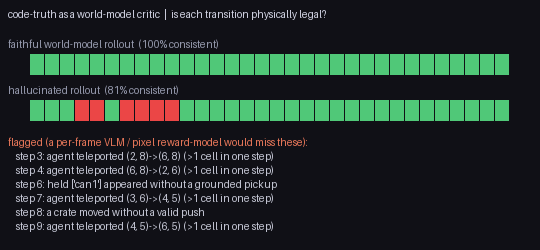
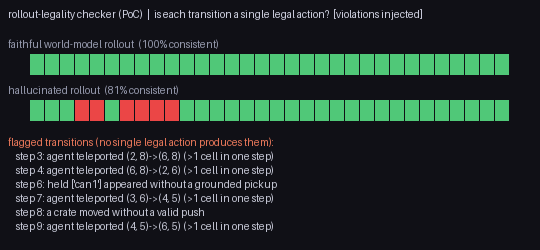
Fix over-correction: demote critic from headline to an honestly-scoped direction
Red-team caught that replacing the constructed code-vs-pixel headline with a 'world-model
critic' headline was WORSE: forge_hallucination() injects exactly the violations critique()
detects (a tautology), it only sees discrete state (not pixels = DIAMOND's real failure mode),
yet the README billed it 'a genuine capability, not a constructed demo' — a self-contradiction
aimed at the founders' own expertise.

- Headline is now the honest, reproducible core: provably-solvable envs + oracle-plan triple
  reuse + PPO that climbs to an oracle-optimal solve (no API key, no manufactured scene)
- critic demoted to '## A direction: code-truth as a rollout-legality checker' with explicit
  scope: it INJECTS the violations it catches; discrete-STATE only; a direction, not a claim.
  critic.png title now carries '[violations injected]'; module docstring states the same
- code-vs-pixel stays a clearly-labeled illustrative micro-benchmark (not 'load-bearing')
- clarity fixes: README pipeline list <-> demo 8 sections aligned; 'strict tool use' ->
  'forced tool use' (it's tool_choice, not the strict-schema beta) everywhere; test count
  13->22; 'minted infinitely' -> 'generated on demand'; controller 'contract' -> 'adapter'

22 tests pass; clean-clone cold run green; every section label consistent across README/demo.

Changed region(s): [[0.0, 0.028, 0.8, 0.084], [0.0889, 0.532, 0.563, 0.588]]

diff --git a/harness/critic.py b/harness/critic.py
@@ -1,16 +1,20 @@
 """
-World-model critic — code-truth as an automated critic for neural world-model "dreams".
+Rollout-legality checker — a proof-of-concept / DIRECTION, not a proven capability.
 
-GI's founders authored DIAMOND, a diffusion world model that predicts future frames. A world
-model can hallucinate: an object teleports, a wall is walked through, an item is "held" that was
-never reached, a door opens with no key. A VLM or a learned reward model judging pixels cannot
-reliably catch these — but the code-defined environment CAN, exactly and for free.
+The idea: the same gridlogic that proves solvability can also check whether a rollout obeys the
+environment's rules. Given a sequence of engine STATES, it asks of every transition — *is there a
+single legal action, under the real grid rules, that produces it?* — and flags the ones with no
+legal action (teleports, wall phasing, ungrounded pickups, no-push crate moves).
 
-Given a rollout (a sequence of engine states — e.g. decoded from a world model's predicted
-frames), this critic asks of every transition: *is there a single legal action, under the real
-grid rules, that produces it?* If not, the transition is flagged as hallucinated, with the rule
-it broke. This turns the same gridlogic that verifies solvability into a dynamics critic — a
-direct, on-thesis use of code-truth for world-model training/eval.
+Motivation: GI's founders authored DIAMOND, a diffusion world model; such models hallucinate
+dynamics that a per-frame VLM / pixel reward-model reads as plausible. Code-truth can catch them.
+
+HONEST SCOPE (read before believing the pitch):
+  * The illustration (_demo / forge_hallucination) *injects* the very corruptions critique()
+    detects — it demonstrates the mechanism, it does not discover anything on its own.
+  * It operates on discrete engine STATE, not pixels. Catching a real DIAMOND-class model's
+    pixel-space hallucinations would require decoding predicted frames back to state first.
+So: a direction worth building, illustrated concretely — not a load-bearing result.
 
 Run the illustration:  uv run python -m harness.critic
 """
@@ -108,7 +112,7 @@ def _demo():
     plan, _ = solve(level, spec.objective)
     real = rollout_from_plan(level, plan)
 
-    print("code-truth as a world-model critic — scene:", spec.name)
+    print("rollout-legality checker (PoC; violations injected) — scene:", spec.name)
     print(f"  FAITHFUL rollout ({len(real)} states): consistency = {score(level, real):.0%}, "
           f"violations = {len(critique(level, real))}")
 

diff --git a/demo.py b/demo.py
@@ -11,9 +11,9 @@ It walks the full factory pipeline:
   3. rollout       -> trace.jsonl + frames/ (pixel frame + code-truth reward = a training shard)
   4. mutation      -> 10 new verified environments, ACCEL-inspired, auto difficulty labels
   5. scorecard     -> success / efficiency, difficulty-stratified (the eval use case)
-  6. world-model critic -> the headline: code-truth flags hallucinated dynamics a VLM would miss
+  6. legality critic -> a direction: code-truth flags injected illegal transitions in a rollout
   7. code vs pixel -> supporting illustrative micro-benchmark on a constructed occlusion scene
-  8. RL capstone   -> pointer to the PPO reward curve (env feeds RL)
+  8. RL capstone   -> the headline: PPO climbs the reward curve (these envs feed RL)
 """
 
 from __future__ import annotations
@@ -138,8 +138,8 @@ def main():
     sc = E.scorecard(all_specs, epsilon=0.12, seed=1)
     print(E.format_scorecard(sc))
 
-    # 6. WORLD-MODEL CRITIC (headline)
-    hr("6. WORLD-MODEL CRITIC  (headline: code-truth flags hallucinated dynamics)")
+    # 6. ROLLOUT-LEGALITY CRITIC (a direction, honestly scoped)
+    hr("6. ROLLOUT-LEGALITY CRITIC  (a direction: code-truth checks rollout legality)")
     from harness import critic as CR
     from harness.verifier import solve
     from harness.engine import gridlogic as _G
@@ -147,13 +147,14 @@ def main():
     clevel = _G.build_level(cspec)
     cplan, _ = solve(clevel, cspec.objective)
     real = CR.rollout_from_plan(clevel, cplan)
-    dreamed = CR.forge_hallucination(clevel, real)
+    dreamed = CR.forge_hallucination(clevel, real)   # we INJECT the illegal transitions here
     vio = CR.critique(clevel, dreamed)
     print(f"    faithful rollout    : consistency {CR.score(clevel, real):.0%}  (0 violations)")
-    print(f"    hallucinated rollout: consistency {CR.score(clevel, dreamed):.0%}  ({len(vio)} illegal transitions flagged)")
+    print(f"    hallucinated rollout: consistency {CR.score(clevel, dreamed):.0%}  ({len(vio)} injected illegal transitions caught)")
     for v in vio[:4]:
         print(f"      - step {v.step}: {v.reason}")
-    print("    -> code-truth catches teleports / ungrounded pickups a pixel judge would miss.  see assets/critic.png")
+    print("    scope: proof-of-concept on discrete STATE (the demo plants the violations it catches);")
+    print("    wiring to a real world model needs a frame->state decoder — a direction, not a claim.")
 
     # 7. CODE vs PIXEL CONTRAST (supporting illustration)
     hr("7. CODE-TRUTH vs PIXEL PERCEPTION  (supporting: illustrative micro-benchmark)")
@@ -168,8 +169,8 @@ def main():
     print(f"    -> code truth is exact and ~{ratio:.0f}x cheaper than the pixel scan.  strip -> {strip}")
     print("    (evaluate.py --vlm --live swaps the pixel stand-in for a real Claude VLM: ~1.7 s/frame + $)")
 
-    # 8. RL LEARNABILITY CAPSTONE
-    hr("8. RL LEARNABILITY  (these envs feed reinforcement learning)")
+    # 8. RL LEARNABILITY CAPSTONE (the headline result)
+    hr("8. RL LEARNABILITY  (the headline: these verified envs feed reinforcement learning)")
     if os.path.exists("assets/learnability.png"):
         print("    assets/learnability.png — PPO reward on 'Coins & Hazard' climbs from failing")
         print("    (~ -1.3) to solving (~10.4), at oracle-optimal length.")
@@ -179,7 +180,7 @@ def main():
 
     print("\n" + "=" * 72)
     print("  DONE. Generated + verified environments, an oracle-solved GIF, a training-shard")
-    print("  trace, 10 curated variants, an eval scorecard, the world-model critic, the")
+    print("  trace, 10 curated variants, an eval scorecard, a legality-checker direction, a")
     print("  code-vs-pixel illustration, and a PPO learnability curve — the factory, end to end.")
     print("=" * 72)
 

diff --git a/scripts/build_assets.py b/scripts/build_assets.py
@@ -92,8 +92,8 @@ def critic_panel():
     H = top + 2 * 46 + 14 * (len(viols) + 1) + 20
     img = Image.new("RGB", (W, H), (16, 16, 22))
     d = ImageDraw.Draw(img)
-    d.text((8, 8), "code-truth as a world-model critic  |  is each transition physically legal?",
-            fill=(210, 212, 228))
+    d.text((8, 8), "rollout-legality checker (PoC)  |  is each transition a single legal action?  "
+                   "[violations injected]", fill=(210, 212, 228))
     for r, (label, states, flagged, sc) in enumerate(rows):
         y = top + r * 46
         d.text((8, y - 2), f"{label}  ({sc:.0%} consistent)", fill=(150, 154, 174))
@@ -102,7 +102,7 @@ def critic_panel():
             col = (235, 70, 70) if i in flagged else (80, 200, 120)
             d.rectangle([x, y + 14, x + cw - 2, y + 34], fill=col)
     y0 = top + 2 * 46 + 4
-    d.text((8, y0), "flagged (a per-frame VLM / pixel reward-model would miss these):", fill=(235, 120, 90))
+    d.text((8, y0), "flagged transitions (no single legal action produces them):", fill=(235, 120, 90))
     for k, v in enumerate(viols):
         d.text((16, y0 + 14 * (k + 1)), f"step {v.step}: {v.reason}", fill=(200, 202, 216))
     img.save(os.path.join(ASSETS, "critic.png"))

diff --git a/harness/dsl/schema.py b/harness/dsl/schema.py
@@ -2,7 +2,7 @@
 The DSL — a typed, constrained description of a 2D environment.
 
 This single artifact is the center of the whole harness. It is, at once:
-  * the LLM's generation target (produced via strict tool use),
+  * the LLM's generation target (produced via forced tool use),
   * the compiler's input (spec -> playable world),
   * the objective definition (a list of executable predicates = code-level ground truth),
   * the thing the verifier proves solvable.
@@ -162,7 +162,7 @@ class EnvSpec(BaseModel):
 
 
 # ── Tool-use schema for the generator (SHAPE guarantee) ─────────────────────────
-# Deliberately hand-written and flattened so Claude's strict tool use produces clean
+# Deliberately hand-written and flattened so Claude's forced tool use produces clean
 # JSON. Semantic constraints (bounds, references) are checked afterward by EnvSpec.
 
 TOOL_SCHEMA = {

diff --git a/harness/eval.py b/harness/eval.py
@@ -1,7 +1,7 @@
 """
 Evaluator — turns the environment factory into a benchmark suite (GI's "training AND
-evaluating" use case), plus an illustrative code-truth-vs-pixel micro-benchmark. (The
-load-bearing code-truth-vs-perception result is the world-model critic in harness/critic.py.)
+evaluating" use case), plus an illustrative code-truth-vs-pixel micro-benchmark on one
+deliberately constructed occlusion scene (not a general VLM benchmark).
 
 Two products:
 

diff --git a/harness/generator.py b/harness/generator.py
@@ -1,5 +1,5 @@
 """
-Generator — text command -> verified EnvSpec, via Claude strict tool use + a repair loop.
+Generator — text command -> verified EnvSpec, via Claude forced tool use + a repair loop.
 
 Two-layer reliability:
   1. SHAPE is guaranteed by tool use: Claude must call `emit_environment` whose input_schema

diff --git a/README.md b/README.md
@@ -1,7 +1,7 @@
 # Infinite Environment Harness
 
 **Text command → a *provably solvable* 2D environment with a code-defined reward, exposed
-through a standard RL interface — minted infinitely, in code.**
+through a standard RL interface — generated on demand, in code.**
 
 ![hero](assets/hero.gif)
 
@@ -46,32 +46,30 @@ live from text. No `uv`? See [requirements.txt](requirements.txt) (`pip`, Python
 3. ROLLOUT         -> trace.jsonl + frames/    (pixel frame + code reward = a training shard)
 4. MUTATION        -> 10 NEW verified envs      (ACCEL-inspired, auto difficulty labels)
 5. EVAL SCORECARD  -> success / efficiency, difficulty-stratified
-6. WORLD-MODEL CRITIC -> flags hallucinated dynamics   (the headline, below)
-7. CODE vs PIXEL   -> supporting illustrative micro-benchmark
-8. RL LEARNABILITY -> PPO reward curve          (the environments feed RL)
+6. LEGALITY CRITIC -> flags injected illegal transitions   (a direction; see below)
+7. CODE vs PIXEL   -> illustrative micro-benchmark (constructed occlusion scene)
+8. RL LEARNABILITY -> PPO reward curve          (the environments feed RL — the headline)
 ```
 
-## Headline: code-truth as a world-model critic
+## Headline: provably-solvable environments that feed RL
 
-The founders authored **DIAMOND**, a diffusion world model. World models hallucinate — an object
-teleports, a wall is walked through, an item is "held" that was never reached. A VLM or learned
-reward model judging pixels cannot reliably catch this; the code-defined environment can, exactly
-and for free. The same `gridlogic` that verifies solvability doubles as a **dynamics critic**:
-given a rollout (e.g. decoded from a world model's predicted frames), it asks of every transition
-*"is there a single legal action that produces it?"* and flags the ones that break the rules.
+The load-bearing result is the flywheel itself — and every piece is reproducible with no API key.
+Each generated (or mutated) environment is run through the L2 solver: if there is no plan, or no
+plan within its `time_limit`, it is rejected and regenerated, so **every accepted environment is
+provably beatable in the engine we ship**. The oracle plan that proves it is reused three ways
+(difficulty label, L3 replay witness, reward-shaping cost-to-go), and a small off-the-shelf PPO
+mounted on one generated env climbs that reward to an oracle-optimal solve:
 
-![critic](assets/critic.png)
+![learnability](assets/learnability.png)
 
-`uv run python -m harness.critic` scores a faithful rollout at **100%** consistency and a
-hallucinated one at **81%**, flagging every illegal transition — teleports, ungrounded pickups,
-no-push crate moves — the exact hallucinations a per-frame VLM or pixel reward-model would miss.
-Reframed: **infinite verified environments as world-model training data, code-truth + oracle
-cost-to-go as an automated critic** for the dreams. This is a genuine capability (arbitrary
-rule-checking), not a constructed demo — and it lands directly in the founders' wheelhouse.
+Mean reward **≈ −1.3 → 10.4** on `coins_hazard`; the trained agent solves it at oracle-optimal
+length. *The same solver that proves solvability supplies the training signal.* Reproduce exactly
+with `uv run --extra rl python learnability.py`; the offline flywheel (generate → verify → oracle
+GIF → trace → mutate) is the top of `uv run demo.py --offline`.
 
 ## Supporting: code-truth vs pixel perception (an illustrative micro-benchmark)
 
-A smaller, honest illustration of the same principle on **one deliberately constructed** occlusion
+A small illustration of *why* objectives live in code, on **one deliberately constructed** occlusion
 scene (an enemy is placed on the can). On the same saved frames, a frame-exact code predicate is
 compared against a perception model answering *"has the can been picked up?"*:
 
@@ -80,18 +78,23 @@ compared against a perception model answering *"has the can been picked up?"*:
 Code truth is exact; the offline pixel **stand-in** detector disagrees on 6 of 15 frames (occlusion
 false positives), at a per-frame image scan vs a microsecond predicate read (`uv run demo.py
 --offline` prints the medians). `uv run python evaluate.py --vlm --live` swaps in a **real Claude
-VLM** — in one observed run it took ~1.7 s/frame + $ per call. Treat this as an illustration, not a
-general VLM benchmark; the critic above is the load-bearing result.
+VLM** — in one observed run it took ~1.7 s/frame + $ per call. This is an illustration, not a
+general VLM benchmark.
 
-## These environments feed RL
+## A direction: code-truth as a rollout-legality checker
 
-![learnability](assets/learnability.png)
+The founders authored **DIAMOND**, a diffusion world model, which motivates a natural extension: the
+same `gridlogic` that proves solvability can also **check whether a rollout obeys the environment's
+rules**, flagging transitions with no legal action (teleports, ungrounded pickups, no-push crate
+moves). `uv run python -m harness.critic` illustrates the mechanism by *injecting* those corruptions
+into an oracle rollout and catching each (faithful 100% vs hallucinated 81%):
 
-A small off-the-shelf PPO (stable-baselines3) mounted on one generated env (`coins_hazard`): mean
-reward climbs **≈ −1.3 → 10.4** and the trained agent solves it at **oracle-optimal** length. The
-reward it climbs is potential-based shaping sourced from the oracle cost-to-go plus the sparse
-code-truth terminal — *the same solver that proves solvability supplies the training signal.* The
-default `uv run --extra rl python learnability.py` reproduces this exact figure.
+![critic](assets/critic.png)
+
+**Honest scope:** this is a proof-of-concept, not a proven capability — the illustration plants the
+violations it detects, and it operates on discrete engine **state**, not pixels. Wiring it to a
+real DIAMOND-class model would require decoding predicted frames back to state (the interesting
+future work). It is a *direction*, not a headline claim.
 
 ## How it maps to your research goals
 
@@ -99,7 +102,7 @@ default `uv run --extra rl python learnability.py` reproduces this exact figure.
 |---|---|
 | **Post-training environments** — diverse, at scale | Unbounded diversity via LLM generation; the **mutation engine** expands each base into a curated family of new environments, every one re-verified solvable and difficulty-labeled ([`mutate.py`](harness/mutate.py)) |
 | **Code-level verifiable objectives** | Objectives are an **executable predicate program** checked frame-exact against engine state ([`engine/gridlogic.py`](harness/engine/gridlogic.py)) — never a VLM on pixels |
-| **Reward-model training** (code truth → pixels) | Every rollout emits `trace.jsonl` of **(pixel frame, code-truth reward)** pairs; the code-vs-pixel contrast quantifies the gap a reward model would close |
+| **Reward-model training** (code truth → pixels) | Every rollout emits `trace.jsonl` of **(pixel frame, code-truth reward)** pairs — the paired data a reward model trains on; the code-vs-pixel section illustrates the gap it would close |
 | **2D → 3D transfer** | The Gymnasium `Env` exposes the **6-input action shape** GI's policy emits `[fwd,back,left,right,mouseDX,mouseDY]` (`action_mode="controller"`, a grid adapter — mouseDX drives facing, mouseDY reserved) and dual `obs_mode="state"\|"pixels"` — same interface, swap the engine |
 
 ## Architecture
@@ -107,7 +110,7 @@ default `uv run --extra rl python learnability.py` reproduces this exact figure.
 ```
   text ─▶ generator ─▶ compiler ─▶ 3-STAGE VERIFIER ─▶ Gymnasium Env ─▶ { PPO | oracle | your policy }
           (Claude       (spec →     L1 schema (pydantic)  reset()/step()
-           strict         world)    L2 solvable  ─┐       obs: state|pixels
+           forced         world)    L2 solvable  ─┐       obs: state|pixels
            tool use +               L3 physics    │       reward: shaped + code-truth terminal
            repair loop)             (pymunk)      │
                                                   ▼
@@ -156,20 +159,20 @@ evaluate.py        scorecard + code-vs-pixel contrast (--vlm --live for a Claude
 learnability.py    PPO capstone (optional: uv run --extra rl)
 harness/
   dsl/schema.py    the typed DSL (pydantic model + tool-use schema)
-  generator.py     Claude strict tool use + repair loop
+  generator.py     Claude forced tool use + repair loop
   compiler.py      spec -> world
   verifier.py      L1/L2/L3 + oracle plan + difficulty + cost-to-go field
   engine/          gridlogic (semantics), world (hybrid + pymunk), renderer
-  gym_env.py       Gymnasium Env (dual obs, controller contract, shaped reward)
+  gym_env.py       Gymnasium Env (dual obs, controller adapter, shaped reward)
   agents/          scripted oracle, greedy probe, Claude state/pixel agents
   mutate.py        ACCEL-inspired curated mutation (binary regret proxy)
-  eval.py          scorecard + contrast
-  critic.py        world-model dynamics critic (flags hallucinated transitions)
+  eval.py          scorecard + code-vs-pixel illustration
+  critic.py        rollout-legality checker (proof-of-concept / direction)
   fixtures.py      canonical environments (offline cache + tests)
 specs/             pre-verified environments (JSON) for --offline
 assets/            README media (regenerate: uv run python scripts/build_assets.py)
 ```
 
 Reproduce everything: `uv run python scripts/build_specs.py && uv run python scripts/build_assets.py`.
-Tests: `uv run --with pytest pytest -q` (13 smoke tests; the generator's tool-use + repair loop
+Tests: `uv run --with pytest pytest -q` (22 smoke tests; the generator's tool-use + repair loop
 is covered via a mocked client, so the online path is exercised without an API key).

diff --git a/SUBMISSION_EMAIL.md b/SUBMISSION_EMAIL.md
@@ -7,17 +7,18 @@
 
 Hi Paula,
 
-I built an **infinite environment factory** for the challenge: a text command is compiled to a
-typed DSL, then a search oracle **proves the environment solvable**, extracts an oracle plan, and
-**auto-labels its difficulty** — so every generated (and mutated) environment is guaranteed
-beatable, with a **code-defined reward** exposed through a standard Gymnasium interface. The
-headline turns your own premise into a number: on the same frames, a code-truth objective is
-frame-exact while a perception model is fooled by occlusion — and I use that same code-truth as an
-automated critic for hallucinated dynamics in world-model rollouts (à la DIAMOND). A small PPO
-climbs the reward curve to prove the environments actually feed RL.
+I built an **environment factory** for the challenge: a text command is compiled to a typed DSL,
+then a search oracle **proves the environment solvable within its step budget** (rejecting and
+regenerating otherwise), extracts an oracle plan, and reuses that one plan three ways — difficulty
+label, replay witness, and reward-shaping signal — all exposed through a standard Gymnasium
+interface. The result is reproducible end to end with no API key: a small off-the-shelf PPO mounted
+on a generated env climbs the reward curve to an oracle-optimal solve, showing the environments
+actually feed RL. (A short code-vs-pixel illustration and a rollout-legality-checker direction are
+included and honestly scoped in the README.)
 
-Repo: https://github.com/ji24077/infinite-env-harness — clone and run `uv run demo.py --offline` (≈1 min, **no API key needed**); the
-README walks the whole pipeline in ~5 minutes. Happy to demo it live for the research team.
+Repo: https://github.com/ji24077/infinite-env-harness — clone and run `uv run demo.py --offline`
+(≈1 min, **no API key needed**); the README walks the whole pipeline in ~5 minutes. Happy to demo
+it live for the research team.
 
 Best,
 [Your Name]

diff --git a/DESIGN.md b/DESIGN.md
@@ -35,10 +35,10 @@ intentional.
 
 ## Two-layer reliability (shape vs meaning)
 
-Anthropic structured/tool-use guarantees the generated JSON's **shape**; it cannot guarantee a
-coordinate is in-bounds or a key is reachable. So: **strict tool use → shape**, **verifier L1/L2/L3
-→ meaning**, **repair loop → convergence** (structured failure fed back, ≤3 retries). The factory
-raises rather than ship an unverified environment.
+Anthropic forced tool use (`tool_choice`) guarantees the generated JSON's **shape**; it cannot
+guarantee a coordinate is in-bounds or a key is reachable. So: **forced tool use → shape**,
+**verifier L1/L2/L3 → meaning**, **repair loop → convergence** (structured failure fed back, ≤3
+retries). The factory raises rather than ship an unverified environment.
 
 ## The agent is an oracle, not the product
 
@@ -56,7 +56,7 @@ offline demo needs no API key: a search oracle is a perfectly good solvability w
 | Regret-inspired curation of a mutation curriculum (binary proxy, not the full minimax-regret estimator) | PAIRED (Dennis 2020), **ACCEL** (Parker-Holder 2022) | `mutate.py` (oracle-vs-greedy regret proxy) |
 | Generate → **solver-verify** solvability, filter unplayable | Sokoban/Mario PCG (Todd 2023, MarioGPT 2023) | `verifier.py` L2 BFS gate |
 | Standard RL env interface for a policy to mount on | Gymnasium / MiniGrid–Miniworld (Farama) | `gym_env.py` |
-| Code-truth as a critic for neural world models (which lack code truth) | DIAMOND / Genie-class | `critic.py` (flags hallucinated dynamics); `eval.py` contrast |
+| Code-truth as a rollout-legality checker (a direction toward critiquing world models) | DIAMOND / Genie-class | `critic.py` (PoC, discrete-state); `eval.py` contrast |
 
 ## What we deliberately did NOT build
 